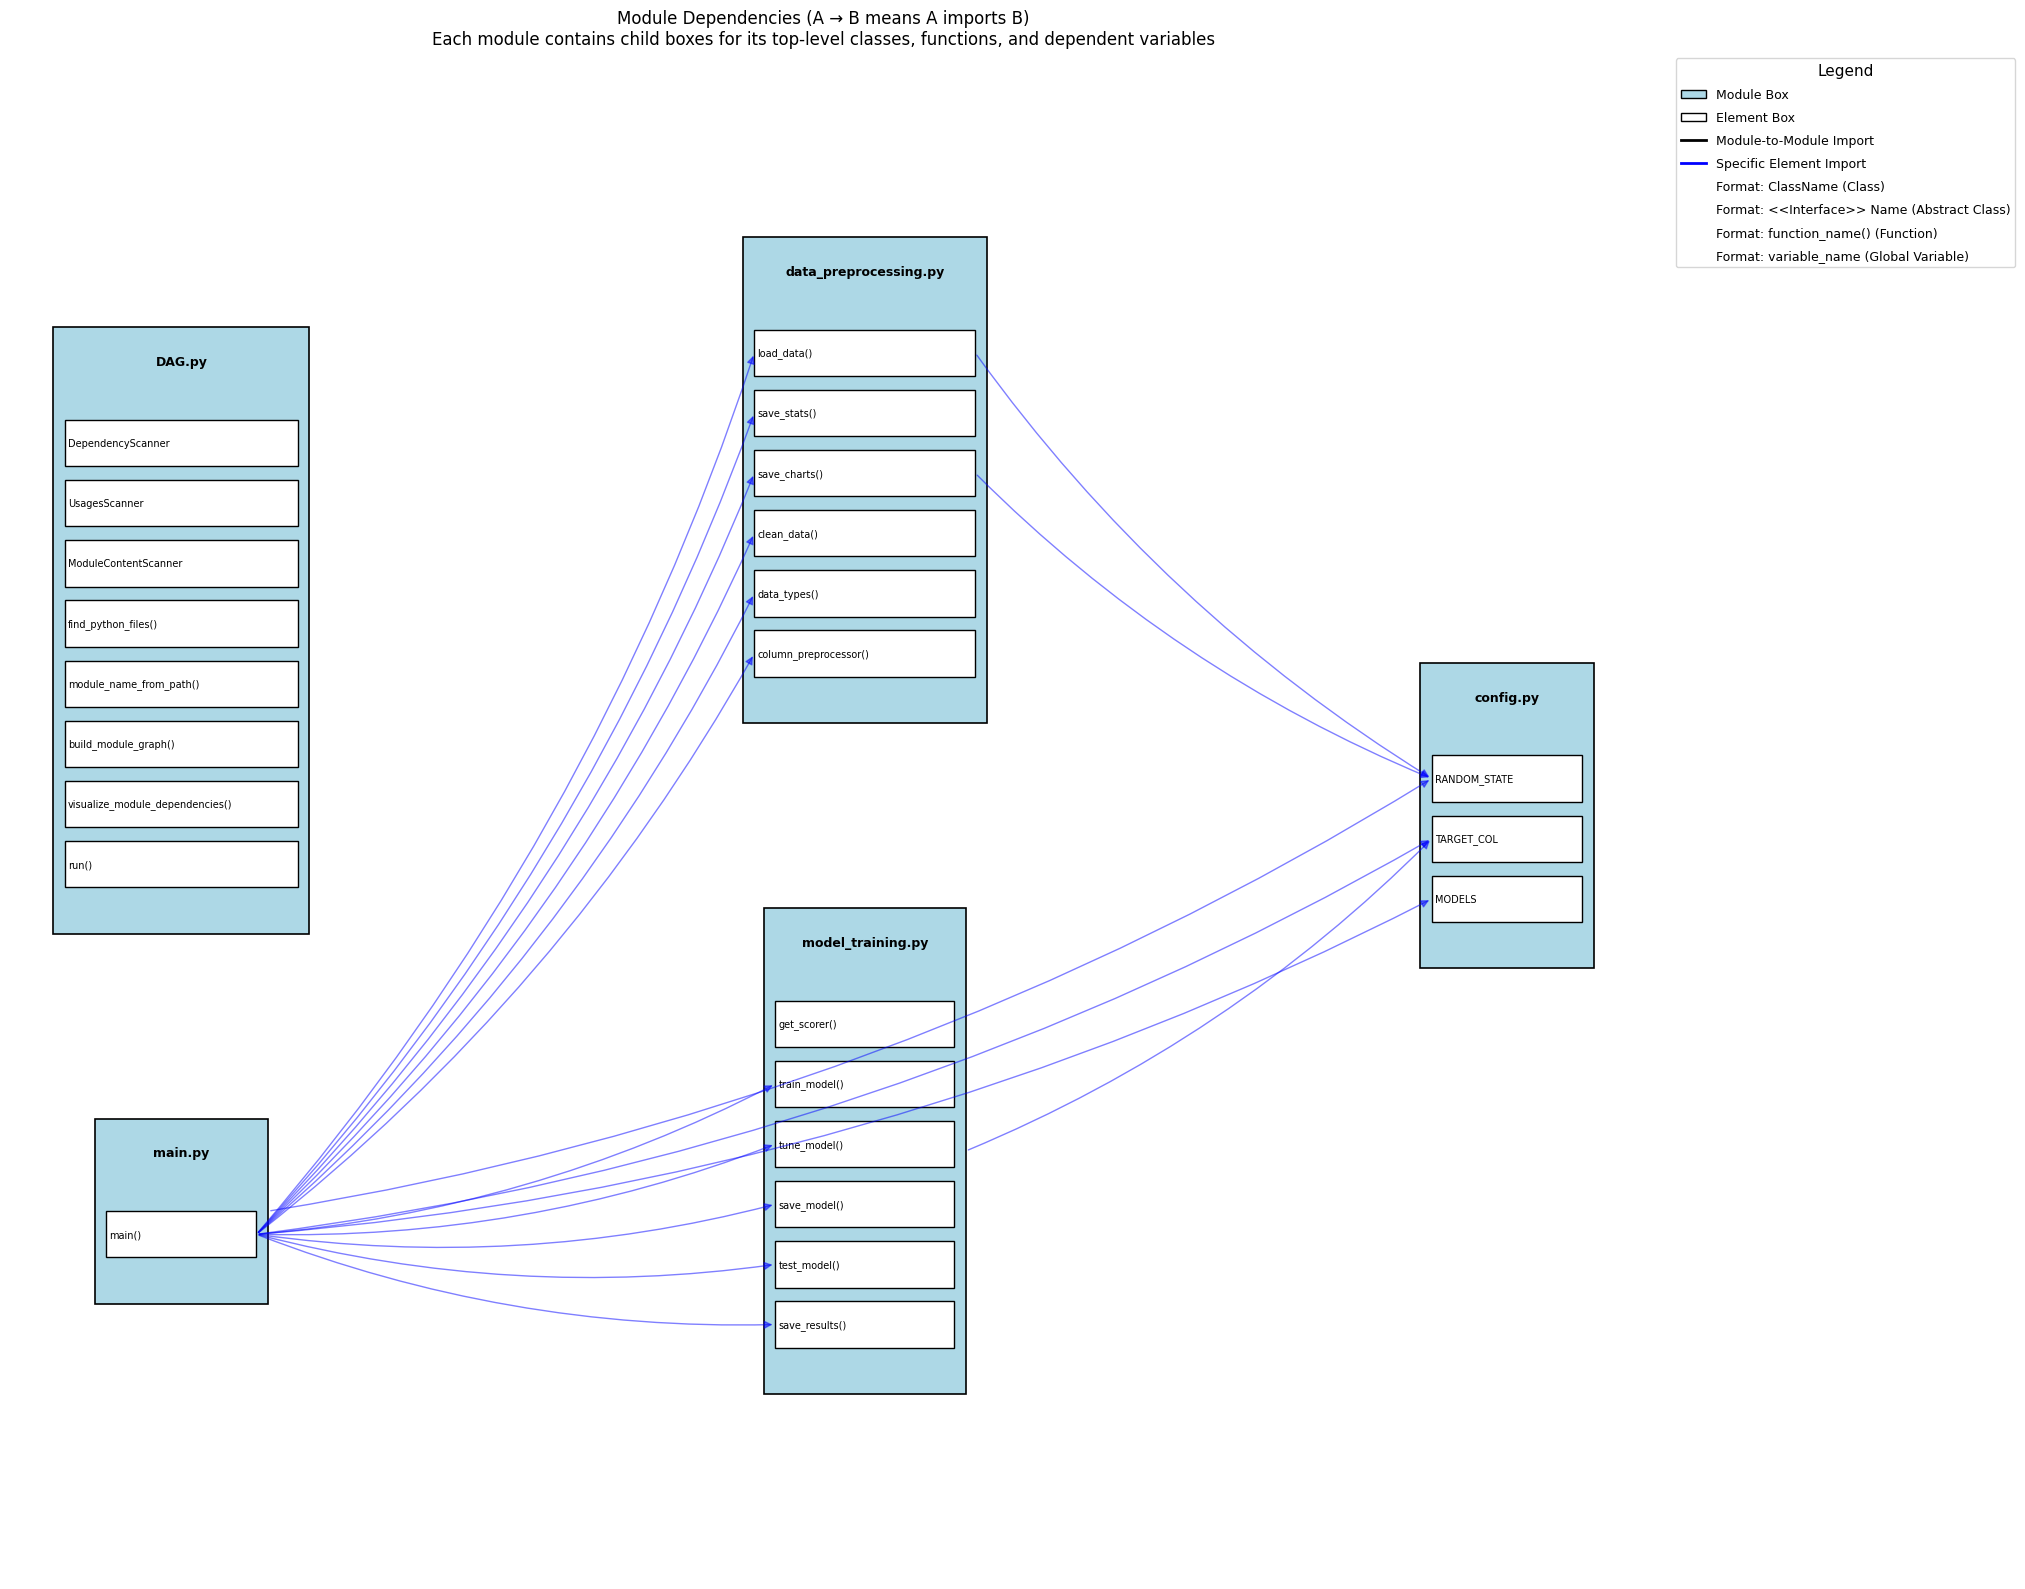
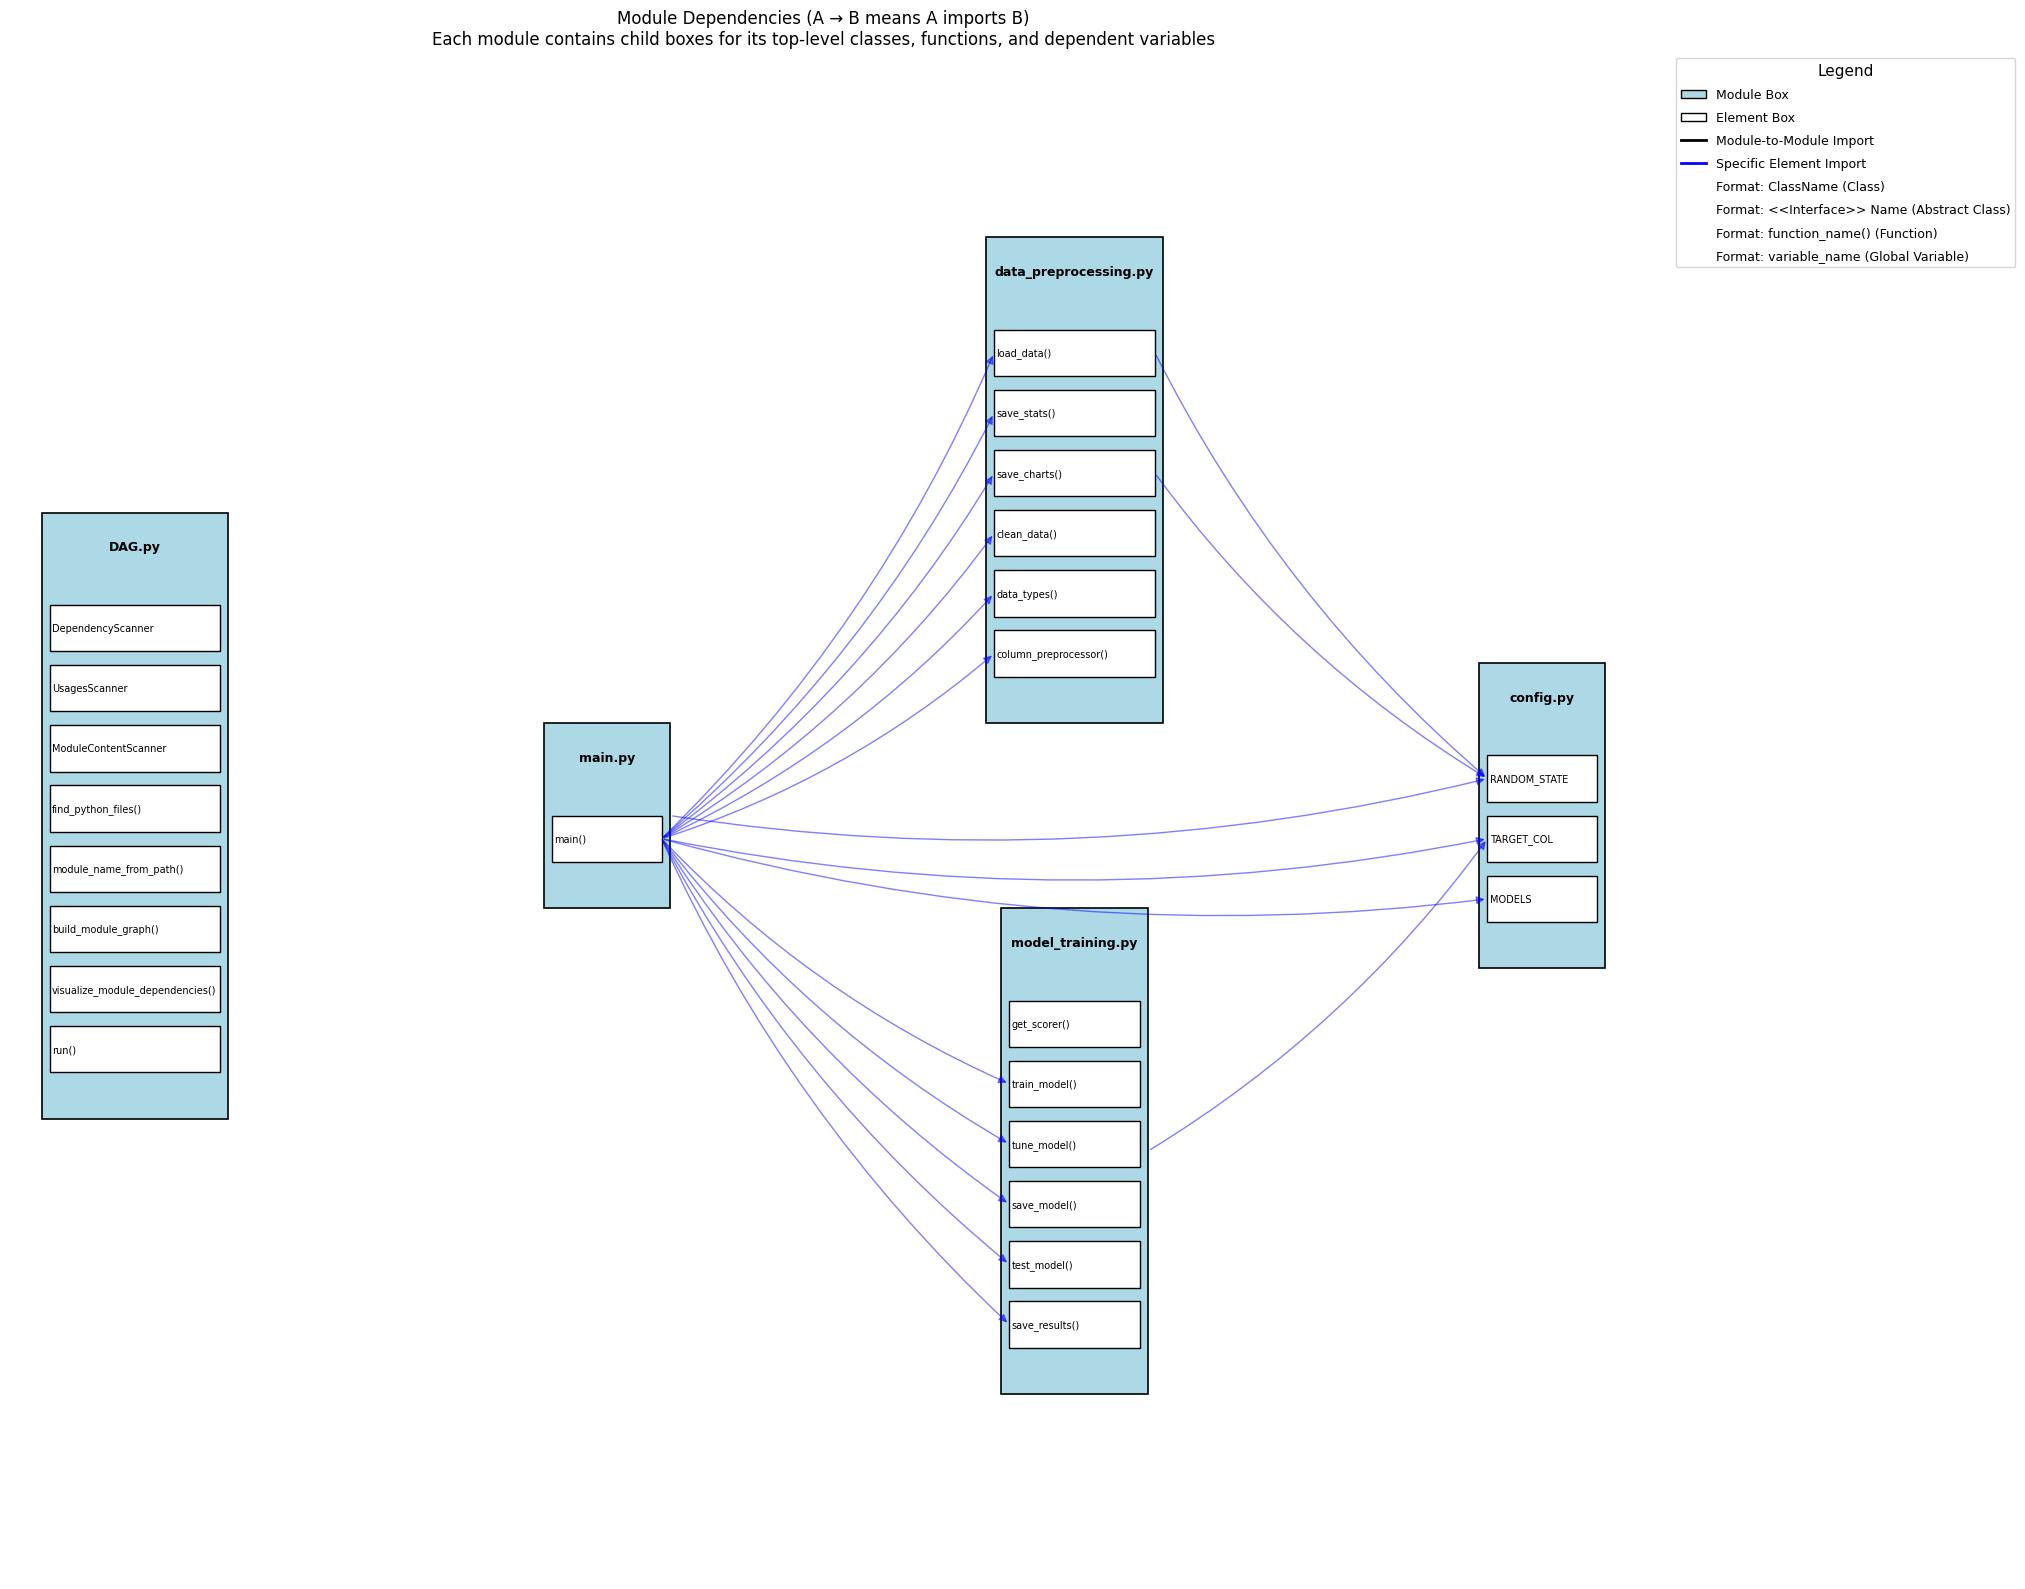
Update DAG.py to center and separate main dependencies from isolated modules

Changed region(s): [[0.2178, 0.1233, 0.5911, 0.8943], [0.0, 0.185, 0.28, 0.8326], [0.6533, 0.4009, 0.8089, 0.6167]]

diff --git a/project_7/DAG.py b/project_7/DAG.py
@@ -24,7 +24,7 @@ from matplotlib.lines import Line2D
 
 
 
-PROJECT_ROOT: str | None = r"C:\Users\Angelo\Documents\github\portfolio\portfolio\project_7_v2"
+PROJECT_ROOT: str | None = r"C:\Users\Angelo\Documents\github\portfolio\portfolio\project_7"
 
 
 
@@ -582,11 +582,32 @@ def visualize_module_dependencies(
 
 
 
+    # Identify isolated nodes (no dependencies on other project modules)
+    isolated_nodes = []
+    for n in modules:
+        if n == "Other":
+            continue
+        has_in = any(u for u, v in dep_edges if v == n and u != "Other")
+        has_out = any(v for u, v in dep_edges if u == n and v != "Other")
+        if not has_in and not has_out:
+            isolated_nodes.append(n)
+
     layer = {n: 0 for n in modules}
     for n in topo_order:
         preds = list(dep_graph.predecessors(n))
+        
+        # Isolated nodes start at 0, everything else starts at 1
+        if n in isolated_nodes:
+            base_layer = 0
+        elif n != "Other":
+            base_layer = 1
+        else:
+            base_layer = 0
+            
         if preds:
-            layer[n] = max(layer[p] + 1 for p in preds)
+            layer[n] = max(base_layer, max(layer[p] + 1 for p in preds))
+        else:
+            layer[n] = base_layer
 
 
 
